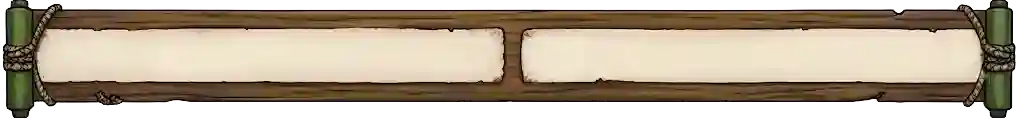
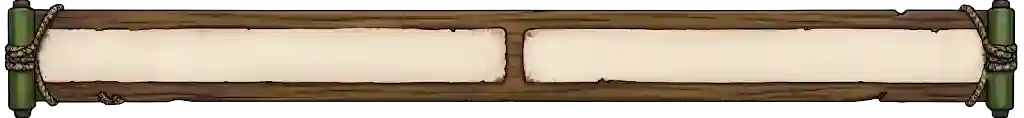
aa

diff --git a/src/components/BattleBoard.tsx b/src/components/BattleBoard.tsx
@@ -2021,6 +2021,15 @@ const [tradeTarget, setTradeTarget] = useState<keyof ChakraPool | null>(null);
   const [globalEmojiCooldownUntil, setGlobalEmojiCooldownUntil] = useState<number>(0);
   const [showBattleSettings, setShowBattleSettings] = useState(false);
   const [showVolumeControls, setShowVolumeControls] = useState(false);
+  // Log da Batalha (overlay no canto inferior esquerdo) — configurável nas
+  // Configurações da Batalha e persistido localmente.
+  const [showBattleLog, setShowBattleLog] = useState<boolean>(() => {
+    try {
+      return localStorage.getItem('ninja_show_battle_log') !== '0';
+    } catch {
+      return true;
+    }
+  });
 
   // Multiplayer state
   const [isWaitingForOpponent, setIsWaitingForOpponent] = useState(false);
@@ -17608,6 +17617,28 @@ const shieldDurText = fmtDur(skill.shieldDuration || 99999);
                     </div>
                   )}
 
+                  {/* Log da Batalha */}
+                  <button
+                    onClick={(e) => {
+                      e.stopPropagation();
+                      playClickSound();
+                      setShowBattleLog(prev => {
+                        const next = !prev;
+                        try {
+                          localStorage.setItem('ninja_show_battle_log', next ? '1' : '0');
+                        } catch {}
+                        return next;
+                      });
+                    }}
+                    className="flex items-center gap-2 px-3 py-2 rounded-lg bg-slate-800/80 hover:bg-slate-700 text-slate-300 hover:text-white transition-all text-xs font-bold cursor-pointer"
+                  >
+                    <Info className={`w-3.5 h-3.5 ${showBattleLog ? 'text-amber-400' : 'text-slate-500'}`} />
+                    <span className="flex-1">{t("Log da Batalha", "Battle Log")}</span>
+                    <span className={`relative inline-flex h-4 w-8 shrink-0 items-center rounded-full transition-colors ${showBattleLog ? 'bg-amber-500' : 'bg-slate-700'}`}>
+                      <span className={`inline-block h-3 w-3 transform rounded-full bg-white shadow transition-transform ${showBattleLog ? 'translate-x-4' : 'translate-x-0.5'}`} />
+                    </span>
+                  </button>
+
                   {/* Recarregar */}
                   {!gameOver && !onlineParams?.isOnline && (
                     <button
@@ -17978,17 +18009,10 @@ onClick={() => handleSelectTarget(combatant.id, false)}
                         const stunEffs = combatant.activeEffects.filter(e => (e.type === 'stun' || (e as any).type === 'blocks_offensive_skills') && isEffectVisibleToViewer(e, 'player'));
                         const hasOffensiveBlockOnly = stunEffs.some(e => e.blocksOffensiveSkills || (e as any).type === 'blocks_offensive_skills');
                         const hasNormalStun = stunEffs.some(e => !e.blocksOffensiveSkills && (e as any).type !== 'blocks_offensive_skills');
-                        const maxDur = Math.max(...stunEffs.map(e => e.duration), 1);
 
                         if (hasOffensiveBlockOnly && !hasNormalStun) {
                           return (
                             <div className="mt-1.5 p-1.5 rounded-lg bg-red-950/90 border border-red-600/80 text-red-200 font-mono text-[10px] space-y-0.5 shadow-md shadow-red-950/50 animate-pulse">
-                              <div className="flex items-center justify-between font-bold text-red-400 text-[10px]">
-                                <span className="flex items-center gap-1">🛑 <span>DEBUFF: SKILLS OFENSIVAS BLOQUEADAS</span></span>
-                                <span className="text-[9px] bg-red-900/90 text-red-100 px-1.5 py-0.2 rounded border border-red-700 font-black">
-                                  {maxDur >= 99999 ? '♾ Permanente' : maxDur + 'T'}
-                                </span>
-                              </div>
                               <p className="text-[9px] text-red-300/90 font-sans leading-tight">
                                 🚫 <strong>Impedido:</strong> Apenas habilidades ofensivas no oponente estão bloqueadas. Habilidades em si mesmo ou amigáveis continuam ativas.
                               </p>
@@ -18010,12 +18034,6 @@ onClick={() => handleSelectTarget(combatant.id, false)}
 
                         return (
                           <div className="mt-1.5 p-1.5 rounded-lg bg-red-950/90 border border-red-600/80 text-red-200 font-mono text-[10px] space-y-0.5 shadow-md shadow-red-950/50 animate-pulse">
-                            <div className="flex items-center justify-between font-bold text-red-400 text-[10px]">
-                              <span className="flex items-center gap-1">⚡ <span>DEBUFF: ATORDOADO</span></span>
-                              <span className="text-[9px] bg-red-900/90 text-red-100 px-1.5 py-0.2 rounded border border-red-700 font-black">
-                                {maxDur >= 99999 ? '♾ Permanente' : maxDur + 'T'}
-                              </span>
-                            </div>
                             <p className="text-[9px] text-red-300/90 font-sans leading-tight">
                               🚫 <strong>Impedido:</strong> {stunTypesStr}
                             </p>
@@ -18520,7 +18538,7 @@ onClick={() => handleSelectTarget(combatant.id, false)}
                       playScrollSound();
                       setShowChakraTrade(true);
                     }}
-                    className="bg-[#cb6a22] border border-[#cb6a22] text-[#fef3c7] text-[10px] sm:text-[11px] uppercase tracking-wider cursor-pointer rounded-md px-1.5 py-0.5 shadow transition-all"
+                    className="bg-[#cb6a22] border border-[#cb6a22] text-[#fef3c7] text-[10px] sm:text-[11px] uppercase tracking-wider cursor-pointer rounded-md px-1.5 py-0.5 shadow transition-all hover:scale-110 active:scale-95 will-change-transform"
                   >
                     <span className="relative z-10 font-brush drop-shadow-[0_1px_1px_rgba(0,0,0,0.5)]">
                       Trocar 4→1
@@ -18623,7 +18641,7 @@ onClick={() => handleSelectTarget(combatant.id, false)}
                 </div>
 
                 {/* 3 Papers Grid: Custo, Recarga, Alvo positioned cleanly over paper artwork */}
-                <div className="grid grid-cols-3 gap-1 font-mono pb-0.5 px-1" style={{ paddingTop: '11px' }}>
+                <div className="grid grid-cols-3 gap-1 font-mono pb-3.5 px-1" style={{ paddingTop: '11px' }}>
                   {/* Paper 1: Custo */}
                   <div className="flex flex-col justify-center items-center text-center p-0.5 min-w-0">
                    
@@ -18631,7 +18649,7 @@ onClick={() => handleSelectTarget(combatant.id, false)}
                       {(() => {
                         const effectiveCost = getEffectiveSkillCost(inspectedSkill.skill, inspectedSkill.combatant, [...playerCombatants, ...enemyCombatants]);
                         if (inspectedSkill.skill.noChakraCost || effectiveCost.length === 0) {
-                          return <span className="text-emerald-950 text-[8.5px] font-black leading-tight whitespace-normal text-center">Sem Custo</span>;
+                          return <span className="text-emerald-950 text-[8.5px] whitespace-normal text-center font-extrabold uppercase">Sem Custo</span>;
                         }
                         return (
                           <>
@@ -18649,22 +18667,22 @@ onClick={() => handleSelectTarget(combatant.id, false)}
 
                   {/* Paper 2: Recarga */}
                   <div className="flex flex-col justify-center items-center text-center p-0.5 min-w-0">
-                    <span className="text-amber-950 font-black uppercase tracking-wider text-[8.5px] leading-none drop-shadow-xs">Recarga</span>
-                    <p className="font-extrabold text-amber-950 text-[8.5px] leading-[1.1] mt-0.5 whitespace-normal break-words text-center">
-                      {inspectedSkill.skill.cooldown === 0 ? 'Sem Recarga' : `${inspectedSkill.skill.cooldown} turnos`}
+ 
+                    <p className="font-extrabold text-amber-950 text-[10.5px] leading-[1.1] mt-0.5 whitespace-normal break-words text-center uppercase">
+                      {inspectedSkill.skill.cooldown === 0 ? <span>Sem<br />Recarga</span> : <span>{inspectedSkill.skill.cooldown}<br />turnos</span>}
                     </p>
                   </div>
 
                   {/* Paper 3: Alvo */}
-                  <div className="flex flex-col justify-center items-center text-center p-0.5 min-w-0">
-                    <span className="text-amber-950 font-black uppercase tracking-wider text-[8.5px] leading-none drop-shadow-xs">Alvo</span>
-                    <p className="font-extrabold text-amber-950 text-[8.5px] leading-[1.1] mt-0.5 whitespace-normal break-words text-center max-w-full px-0.5">
-                      {inspectedSkill.skill.targetType === 'Enemy' && 'Inimigo Único'}
+                  <div className="ml-[-4px] flex flex-col justify-center items-center text-center p-0.5 min-w-0">
+ 
+                    <p className="font-extrabold text-amber-950 text-[10.5px] leading-[1.1] mt-0.5 whitespace-normal break-words text-center max-w-full px-0.5 uppercase">
+                      {inspectedSkill.skill.targetType === 'Enemy' && <span>Inimigo<br />Único</span>}
                       {inspectedSkill.skill.targetType === 'Self' && 'Próprio'}
-                      {inspectedSkill.skill.targetType === 'Ally' && 'Aliado Único'}
-                      {inspectedSkill.skill.targetType === 'AllEnemies' && 'Todos Inimigos'}
-                      {inspectedSkill.skill.targetType === 'AllAllies' && 'Todos Aliados'}
-                      {inspectedSkill.skill.targetType === 'AnyLiving' && 'Qualquer Vivo'}
+                      {inspectedSkill.skill.targetType === 'Ally' && <span>Aliado<br />Único</span>}
+                      {inspectedSkill.skill.targetType === 'AllEnemies' && <span>Todos<br />Inimigos</span>}
+                      {inspectedSkill.skill.targetType === 'AllAllies' && <span>Todos<br />Aliados</span>}
+                      {inspectedSkill.skill.targetType === 'AnyLiving' && <span>Qualquer<br />Vivo</span>}
                     </p>
                   </div>
                 </div>
@@ -19099,17 +19117,10 @@ onClick={() => handleSelectTarget(combatant.id, true)}
                         const stunEffs = combatant.activeEffects.filter(e => (e.type === 'stun' || (e as any).type === 'blocks_offensive_skills') && isEffectVisibleToViewer(e, 'player'));
                         const hasOffensiveBlockOnly = stunEffs.some(e => e.blocksOffensiveSkills || (e as any).type === 'blocks_offensive_skills');
                         const hasNormalStun = stunEffs.some(e => !e.blocksOffensiveSkills && (e as any).type !== 'blocks_offensive_skills');
-                        const maxDur = Math.max(...stunEffs.map(e => e.duration), 1);
 
                         if (hasOffensiveBlockOnly && !hasNormalStun) {
                           return (
                             <div className="mt-1.5 p-1.5 rounded-lg bg-red-950/90 border border-red-600/80 text-red-200 font-mono text-[10px] space-y-0.5 shadow-md shadow-red-950/50 animate-pulse">
-                              <div className="flex items-center justify-between font-bold text-red-400 text-[10px]">
-                                <span className="flex items-center gap-1">🛑 <span>DEBUFF: SKILLS OFENSIVAS BLOQUEADAS</span></span>
-                                <span className="text-[9px] bg-red-900/90 text-red-100 px-1.5 py-0.2 rounded border border-red-700 font-black">
-                                  {maxDur >= 99999 ? '♾ Permanente' : maxDur + 'T'}
-                                </span>
-                              </div>
                               <p className="text-[9px] text-red-300/90 font-sans leading-tight">
                                 🚫 <strong>Impedido:</strong> Apenas habilidades ofensivas no oponente estão bloqueadas. Habilidades em si mesmo ou amigáveis continuam ativas.
                               </p>
@@ -19131,12 +19142,6 @@ onClick={() => handleSelectTarget(combatant.id, true)}
 
                         return (
                           <div className="mt-1.5 p-1.5 rounded-lg bg-red-950/90 border border-red-600/80 text-red-200 font-mono text-[10px] space-y-0.5 shadow-md shadow-red-950/50 animate-pulse">
-                            <div className="flex items-center justify-between font-bold text-red-400 text-[10px]">
-                              <span className="flex items-center gap-1">⚡ <span>DEBUFF: ATORDOADO</span></span>
-                              <span className="text-[9px] bg-red-900/90 text-red-100 px-1.5 py-0.2 rounded border border-red-700 font-black">
-                                {maxDur >= 99999 ? '♾ Permanente' : maxDur + 'T'}
-                              </span>
-                            </div>
                             <p className="text-[9px] text-red-300/90 font-sans leading-tight">
                               🚫 <strong>Impedido:</strong> {stunTypesStr}
                             </p>
@@ -20699,7 +20704,6 @@ onClick={() => handleSelectTarget(combatant.id, true)}
 
                     <div>
                       <h4 className="text-sm sm:text-base font-extrabold text-amber-100">{activeQuest.title}</h4>
-                      <p className="text-xs text-slate-300 mt-1 leading-relaxed">{activeQuest.desc}</p>
                     </div>
 
                     {/* Goals Progress */}
@@ -20768,12 +20772,9 @@ onClick={() => handleSelectTarget(combatant.id, true)}
                             }`}
                           >
                             <div className="flex items-start justify-between gap-2 mb-2">
-                              <div>
-                                <h5 className="text-xs sm:text-sm font-bold text-slate-100 flex items-center gap-1.5">
-                                  {quest.title}
-                                </h5>
-                                <p className="text-[11px] text-slate-400 line-clamp-2 mt-0.5">{quest.desc}</p>
-                              </div>
+                              <h5 className="text-xs sm:text-sm font-bold text-slate-100 flex items-center gap-1.5">
+                                {quest.title}
+                              </h5>
                               <span className="text-[10px] font-mono px-2 py-0.5 rounded bg-slate-800 text-slate-300 shrink-0">
                                 {quest.category || 'Ninja'}
                               </span>
@@ -20825,22 +20826,25 @@ onClick={() => handleSelectTarget(combatant.id, true)}
       </AnimatePresence>
 
       {/* 🧪 OVERLAY DE DIAGNÓSTICO (temporário) — log de combate visível no canto.
-          Mostra as últimas mensagens de sistema (⏳ watchdog, 🛑 anti-loop, iniciativa). */}
-      <div className="fixed bottom-2 left-2 z-[90] max-w-[280px] pointer-events-none select-none">
-        <div className="bg-black/75 border border-orange-900/60 rounded-lg px-2 py-1.5 font-mono text-[9px] leading-snug text-slate-200 shadow-lg">
-          <div className="text-orange-400 font-bold uppercase tracking-wider mb-0.5">🧪 Log v7</div>
-          {logs.slice(-7).map(l => (
-            <div
-              key={l.id}
-              className={`truncate ${l.message.startsWith('🧪') || l.message.includes('⏳') || l.message.includes('🛑') || l.message.includes('⚠') ? 'text-amber-300' : 'text-slate-300'}`}
-              title={l.message}
-            >
-              {l.message}
-            </div>
-          ))}
-          <div ref={logsEndRef} />
+          Mostra as últimas mensagens de sistema (⏳ watchdog, 🛑 anti-loop, iniciativa).
+          Pode ser ocultado via Configurações da Batalha → "Log da Batalha". */}
+      {showBattleLog && (
+        <div className="fixed bottom-2 left-2 z-[90] max-w-[280px] pointer-events-none select-none">
+          <div className="bg-black/75 border border-orange-900/60 rounded-lg px-2 py-1.5 font-mono text-[9px] leading-snug text-slate-200 shadow-lg">
+            <div className="text-orange-400 font-bold uppercase tracking-wider mb-0.5">🧪 Log v7</div>
+            {logs.slice(-7).map(l => (
+              <div
+                key={l.id}
+                className={`truncate ${l.message.startsWith('🧪') || l.message.includes('⏳') || l.message.includes('🛑') || l.message.includes('⚠') ? 'text-amber-300' : 'text-slate-300'}`}
+                title={l.message}
+              >
+                {l.message}
+              </div>
+            ))}
+            <div ref={logsEndRef} />
+          </div>
         </div>
-      </div>
+      )}
     </div>
   );
 } 

diff --git a/src/components/CharacterSelect.tsx b/src/components/CharacterSelect.tsx
@@ -641,7 +641,7 @@ export default function CharacterSelect({ onConfirmTeams, playClickSound, playSc
                     <button
                       onClick={handleBackToPlayerSelect}
                       data-sound="uah"
-                      className="px-3.5 py-2.5 rounded-lg font-black flex items-center gap-1.5 tracking-wide text-xs uppercase cursor-pointer border select-none active:scale-95 transition-all bg-amber-900/80 hover:bg-amber-800 text-amber-100 border-amber-700 shadow-md font-mono"
+                      className="px-3.5 py-2.5 rounded-lg font-black flex items-center gap-1.5 tracking-wide text-xs uppercase cursor-pointer border select-none active:scale-95 transition-all bg-amber-900/80 hover:bg-amber-800 text-amber-100 border-amber-700 shadow-md shadow-black/20 font-mono"
                     >
                       <ChevronLeft className="w-4 h-4" />
                       {t("Voltar (Time A)", "Back (Team A)")}
@@ -653,8 +653,8 @@ export default function CharacterSelect({ onConfirmTeams, playClickSound, playSc
                       disabled={selectedIds.length !== 3}
                       className={`px-4 py-2.5 rounded-lg font-black flex items-center gap-1.5 tracking-wide text-xs uppercase cursor-pointer border select-none active:scale-95 transition-all font-mono ${
                         selectedIds.length === 3
-                          ? 'bg-gradient-to-r from-emerald-700 to-teal-600 hover:brightness-110 text-white border-emerald-500 shadow-lg'
-                          : 'bg-amber-950/20 text-amber-900/50 border-amber-900/30 cursor-not-allowed font-medium'
+                          ? 'bg-gradient-to-r from-emerald-700 to-teal-600 hover:brightness-110 text-white border-emerald-500 shadow-lg shadow-black/25'
+                          : 'bg-amber-950/20 text-amber-900/50 border-amber-900/30 cursor-not-allowed font-medium shadow-sm shadow-black/10'
                       }`}
                     >
                       <Swords className="w-4 h-4 animate-pulse" />
@@ -670,7 +670,7 @@ export default function CharacterSelect({ onConfirmTeams, playClickSound, playSc
                           onBack();
                         }}
                         data-sound="uah"
-                        className="px-3.5 py-2.5 rounded-lg font-black flex items-center gap-1.5 tracking-wide text-xs uppercase cursor-pointer border select-none active:scale-95 transition-all bg-amber-900/80 hover:bg-amber-800 text-amber-100 border-amber-700 shadow-md font-mono"
+                        className="px-3.5 py-2.5 rounded-lg font-black flex items-center gap-1.5 tracking-wide text-xs uppercase cursor-pointer border select-none active:scale-95 transition-all bg-amber-900/80 hover:bg-amber-800 text-amber-100 border-amber-700 shadow-md shadow-black/20 font-mono"
                       >
                         <ChevronLeft className="w-4 h-4" />
                         {t("Voltar", "Back")}
@@ -683,8 +683,8 @@ export default function CharacterSelect({ onConfirmTeams, playClickSound, playSc
                       disabled={selectedIds.length !== 3}
                       className={`px-3.5 py-2.5 rounded-lg font-black flex items-center gap-1.5 tracking-wide text-xs uppercase cursor-pointer border select-none active:scale-95 transition-all font-mono ${
                         selectedIds.length === 3
-                          ? 'bg-amber-900 hover:bg-amber-800 text-amber-100 border-amber-700 shadow-md'
-                          : 'bg-amber-950/20 text-amber-900/50 border-amber-900/30 cursor-not-allowed font-medium'
+                          ? 'bg-amber-900 hover:bg-amber-800 text-amber-100 border-amber-700 shadow-md shadow-black/20'
+                          : 'bg-amber-950/20 text-amber-900/50 border-amber-900/30 cursor-not-allowed font-medium shadow-sm shadow-black/10'
                       }`}
                     >
                       <Swords className="w-4 h-4" />
@@ -697,27 +697,35 @@ export default function CharacterSelect({ onConfirmTeams, playClickSound, playSc
                       disabled={selectedIds.length !== 3}
                       className={`px-3.5 py-2.5 rounded-lg font-black flex items-center gap-1.5 tracking-wide text-xs uppercase cursor-pointer border select-none active:scale-95 transition-all font-mono ${
                         selectedIds.length === 3
-                          ? 'bg-gradient-to-r from-orange-600 to-amber-600 hover:brightness-110 text-amber-950 border-amber-500 shadow-md'
-                          : 'bg-amber-950/20 text-amber-900/50 border-amber-900/30 cursor-not-allowed font-medium'
+                          ? 'bg-gradient-to-r from-orange-600 to-amber-600 hover:brightness-110 text-amber-950 border-amber-500 shadow-md shadow-black/20'
+                          : 'bg-amber-950/20 text-amber-900/50 border-amber-900/30 cursor-not-allowed font-medium shadow-sm shadow-black/10'
                       }`}
                     >
                       <Sparkles className="w-4 h-4 text-amber-400" />
                       Sandbox
                     </button>
 
-                    <button
-                      onClick={handleStartMatchmaking}
-                      data-sound="uah"
-                      disabled={selectedIds.length !== 3}
-                      className={`px-4 py-2.5 rounded-lg font-black flex items-center gap-2 tracking-wide text-xs uppercase cursor-pointer border select-none active:scale-95 transition-all font-mono ${
+                    <div
+                      className={`clip-diamond p-[2px] transition-all ${
                         selectedIds.length === 3
-                          ? 'bg-amber-950 text-amber-100 border-amber-700 hover:bg-amber-900 shadow-md'
-                          : 'bg-amber-950/20 text-amber-900/50 border-amber-900/30 cursor-not-allowed font-medium'
+                          ? 'bg-amber-700 [filter:drop-shadow(0_4px_6px_rgba(0,0,0,0.2))_drop-shadow(0_2px_4px_rgba(0,0,0,0.2))]'
+                          : 'bg-amber-900/30 [filter:drop-shadow(0_1px_2px_rgba(0,0,0,0.1))]'
                       }`}
                     >
-                      <img src="/static/img/icon/star.svg" alt="Shuriken" className="w-4 h-4 animate-spin object-contain" />
-                      {t("Partida Rápida", "Quick Match")}
-                    </button>
+                      <button
+                        onClick={handleStartMatchmaking}
+                        data-sound="uah"
+                        disabled={selectedIds.length !== 3}
+                        className={`clip-diamond px-5 py-2 font-black flex items-center gap-2 tracking-wide text-xs uppercase cursor-pointer select-none active:scale-95 transition-all font-mono ${
+                          selectedIds.length === 3
+                            ? 'bg-amber-950 text-amber-100 hover:bg-amber-900'
+                            : 'bg-amber-950/20 text-amber-900/50 cursor-not-allowed font-medium'
+                        }`}
+                      >
+                        <img src="/static/img/icon/star.svg" alt="Shuriken" className="w-4 h-4 animate-spin object-contain" />
+                        {t("Partida Rápida", "Quick Match")}
+                      </button>
+                    </div>
                   </>
                 )}
               </div>
@@ -981,7 +989,7 @@ export default function CharacterSelect({ onConfirmTeams, playClickSound, playSc
               }}
             />
 
-            <div className="relative z-10 space-y-6 px-3 sm:px-6 py-2">
+            <div className=" relative z-10 space-y-6 px-3 pt-[0px] pb-[10px]">
               {/* Header Portrait + Description */}
               <div className="mb-[0px] flex gap-4 items-center p-2.5">
                 <div className="w-20 h-20 rounded-xl overflow-hidden border-2 border-amber-900/60 bg-amber-950/20 flex-shrink-0 shadow-md">

diff --git a/src/index.css b/src/index.css
@@ -228,6 +228,16 @@ body.processing-cursor * {
 }
 
 /* =========================================================
+   BOTÃO DIAMANTE HORIZONTAL (Partida Rápida)
+   clip-path hexagonal com pontas laterais.
+   Aplicar a um wrapper com padding para servir de "borda",
+   e ao botão interno para o preenchimento.
+   ========================================================= */
+.clip-diamond {
+  clip-path: polygon(12% 0%, 88% 0%, 100% 50%, 88% 100%, 12% 100%, 0% 50%);
+}
+
+/* =========================================================
    BOTÃO MADEIRA COM IMAGEM (btn-wood.webp)
    Estrutura espelhada de .btn-red-image mas com tema madeira.
    ========================================================= */
